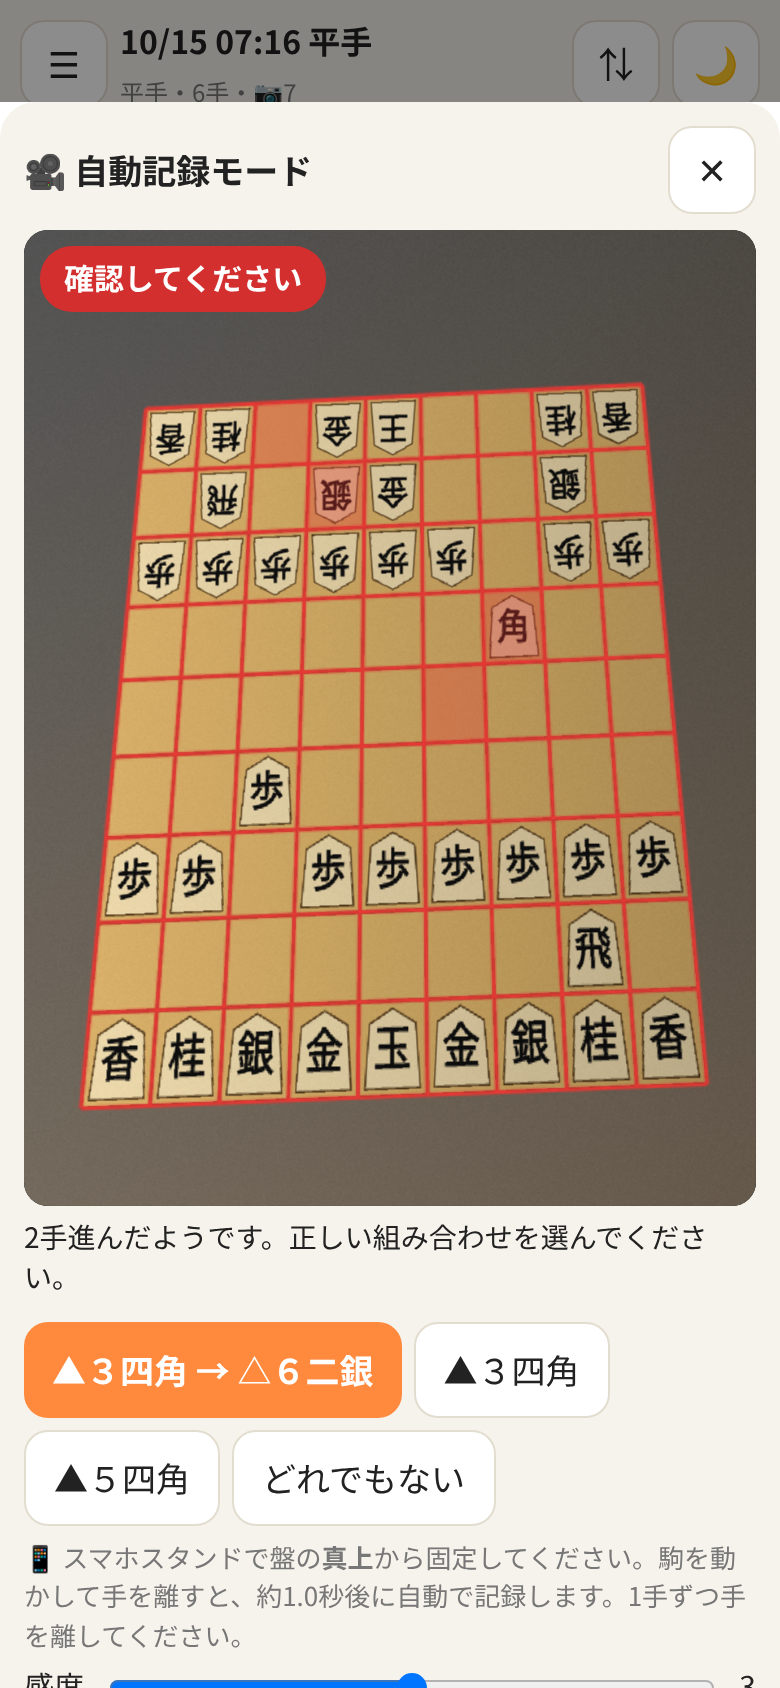
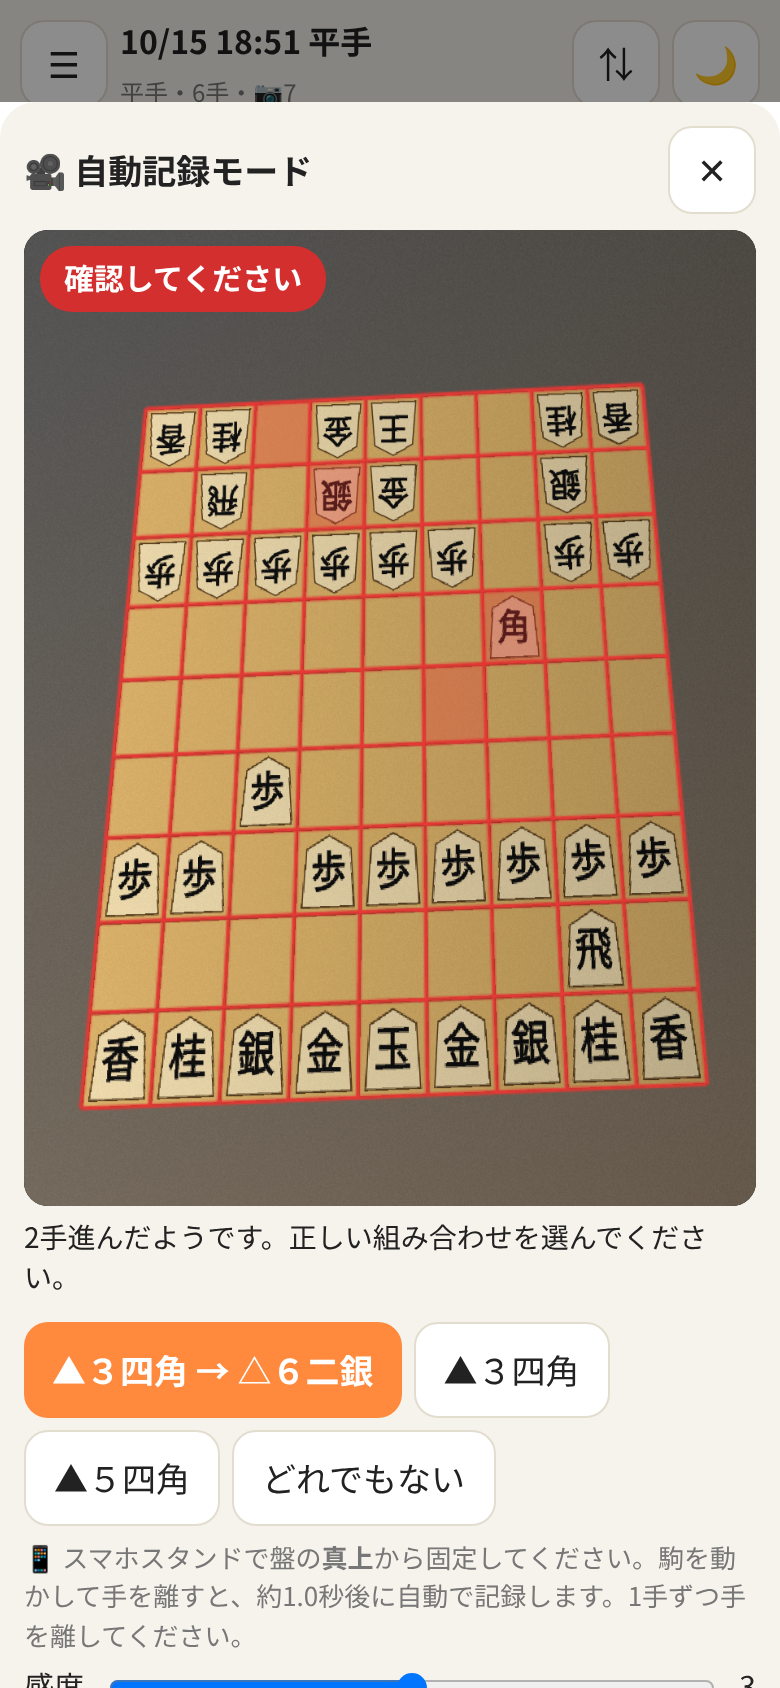
自動記録の再検出: 認識で局面一致なら基準更新、SW sk-v6

diff --git a/auto.js b/auto.js
@@ -53,7 +53,11 @@ async function decide(key,now){const waitHand=()=>{if(!AUTO.blockedSince)AUTO.bl
    const v=$('#avid'),cv=document.createElement('canvas');cv.width=v.videoWidth;cv.height=v.videoHeight;cv.getContext('2d').drawImage(v,0,0);
    const prev=st.corners.map(([a,b])=>[a*cv.width,b*cv.height]),g=await GridDetect.auto(cv,{prev});AUTO.log.push('redetect:'+(g.conf||0).toFixed(2));
    if(g.ok&&g.conf>=.5){const old=st.corners;st.corners=g.corners.map(([a,b])=>[a/cv.width,b/cv.height]);const f=frame(400),k2=V.rectify(f.img,f.C,270),n2=strongCells(V.cellDiff(AUTO.ref,k2)).length;
-    if(n2<=8){save();AUTO.prev=null;toast('盤のずれを検出して、マス目を合わせ直しました');AUTO.log.push('regrid:'+n2);AUTO.redetected=true;try{return await decide(k2,now);}finally{AUTO.redetected=false;}}
+    if(n2<=8){save();AUTO.prev=null;toast('盤のずれを検出して、マス目を合わせ直しました');AUTO.log.push('regrid:'+n2);
+     // 位置合わせのわずかな差で数マス変化して見えることがある → 駒の認識で今の局面と一致すれば「指していない」とみなして基準を更新
+     if(n2&&window.Recog){try{const P=pos(),cl=await Recog.classify(V.rectify(f.img,f.C,360)),mis=cl.filter(x=>x.best!==Recog.clsOf(P.b[Math.floor(x.cell/9)][x.cell%9])).length;AUTO.log.push('regrid-mis:'+mis);
+      if(mis<=1){AUTO.ref=k2;AUTO.state='stable';badge('待機中','');return;}}catch(e){}}
+     AUTO.redetected=true;try{return await decide(k2,now);}finally{AUTO.redetected=false;}}
     st.corners=old;}}
   AUTO.paused=true;badge('盤がずれた？','ask');AUTO.log.push('moved');
   chips(`${strong.length}マスが変化しました。盤やカメラが動いた可能性があります。`,[],key,true);return;}

diff --git a/sw.js b/sw.js
@@ -1,6 +1,6 @@
 // オフライン用キャッシュ ＋ クロスオリジン分離(COOP/COEP)ヘッダーの付与
 // （GitHub Pages ではヘッダーを設定できないため、coi-serviceworker と同じ方法で SharedArrayBuffer を有効にする）
-const V='sk-v5',F=['./','index.html','style.css','shogi.js','vision.js','griddetect.js','app.js','auto.js','recog.js','recog-ui.js','kento.js','model/piece-model.json','model/piece-model.bin','manifest.json','icon.svg'];
+const V='sk-v6',F=['./','index.html','style.css','shogi.js','vision.js','griddetect.js','app.js','auto.js','recog.js','recog-ui.js','kento.js','model/piece-model.json','model/piece-model.bin','manifest.json','icon.svg'];
 self.addEventListener('install',e=>{e.waitUntil(caches.open(V).then(c=>c.addAll(F)).catch(()=>{}));self.skipWaiting()});
 self.addEventListener('activate',e=>{e.waitUntil(caches.keys().then(k=>Promise.all(k.filter(x=>x.startsWith('sk-v')&&x!==V).map(x=>caches.delete(x)))));self.clients.claim()});
 const withCOI=r=>{if(!r||r.status===0||r.type==='opaque')return r;const h=new Headers(r.headers);h.set('Cross-Origin-Embedder-Policy','require-corp');h.set('Cross-Origin-Opener-Policy','same-origin');h.set('Cross-Origin-Resource-Policy','same-origin');
